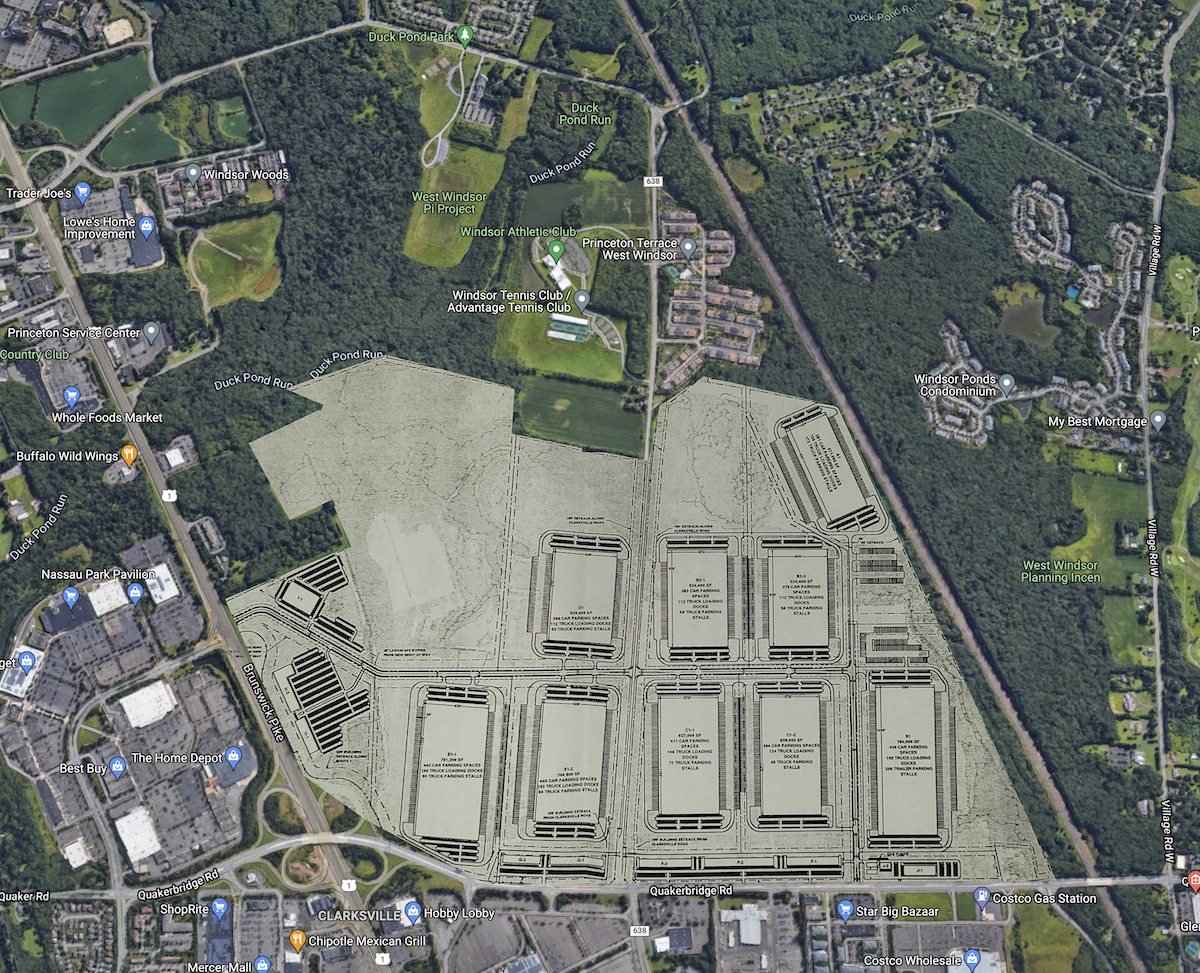
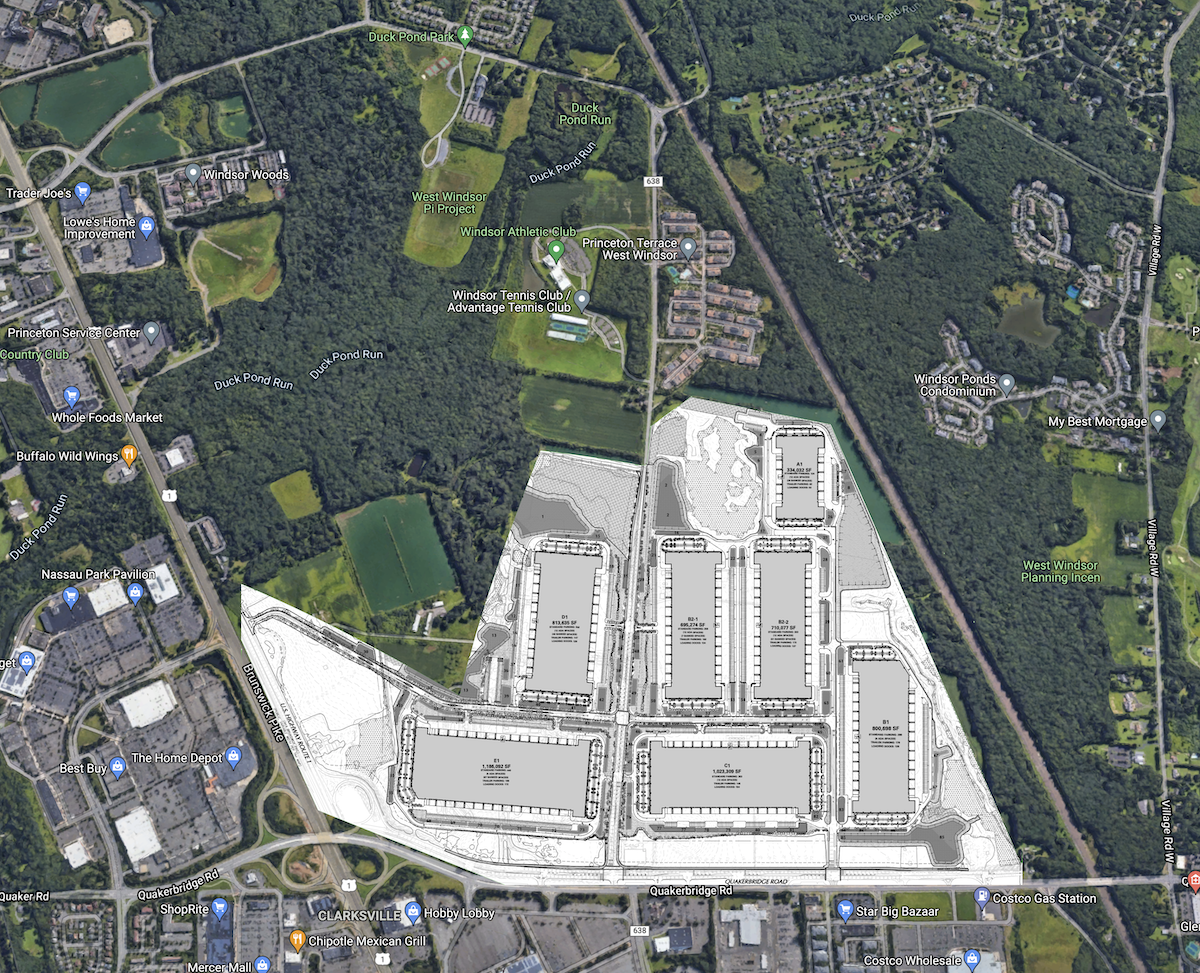
Updates

Changed region(s): [[0.185, 0.3392, 0.8942, 0.925]]

diff --git a/cm/index.html b/cm/index.html
@@ -78,21 +78,19 @@ Docs:
 
 <h4 id="warehouse_summary">Warehouse Summary</h4>
 
-Site has: <b>5.5 million sq. ft.</b> warehouse space.  <b>1,243</b> loading docks.  <b>3,562</b> car parking spaces.  <b>863</b> truck parking spaces.  See <a href="http://tinyurl.com/ClarksvilleMonstrositySummary">this Google sheet</a> (click for <a href="warehouse_summary.png">shareable image</a>).
+Site has: <b>5.6 million sq. ft.</b> warehouse space.  <b>910</b> loading docks.  <b>2,028</b> car parking spaces and <b>1,071</b> truck parking spaces.  See <a href="http://tinyurl.com/ClarksvilleMonstrositySummary">this Google sheet</a> (click for <a href="warehouse_summary.png">shareable image</a>).
 <p/>
 
 <table border="1">
   <tr bgcolor="lightblue"><th>Warehouse</th><th>Sq. Ft.</th><th>Docks</th><th>Cars</th><th>Trucks</th></tr>
-  <tr style="font-weight: bold"><td>TOTAL</td><td align="right">5,537,200</td><td align="right">1,243</td><td align="right">3,562</td><td align="right">863</td></tr>
-  <tr><td>A1</td><td align="right">411,600</td><td align="right">126</td><td align="right">281</td><td align="right">173</td></tr>
-  <tr><td>B1</td><td align="right">784,000</td><td align="right">192</td><td align="right">436</td><td align="right">205</td></tr>
-  <tr><td>B2-1</td><td align="right">524,400</td><td align="right">112</td><td align="right">383</td><td align="right">58</td></tr>
-  <tr><td>B2-2</td><td align="right">524,400</td><td align="right">112</td><td align="right">378</td><td align="right">56</td></tr>
-  <tr><td>C1-1</td><td align="right">627,000</td><td align="right">148</td><td align="right">411</td><td align="right">77</td></tr>
-  <tr><td>C1-2</td><td align="right">638,400</td><td align="right">124</td><td align="right">394</td><td align="right">65</td></tr>
-  <tr><td>D1</td><td align="right">539,400</td><td align="right">112</td><td align="right">396</td><td align="right">53</td></tr>
-  <tr><td>E1-1</td><td align="right">781,200</td><td align="right">164</td><td align="right">443</td><td align="right">90</td></tr>
-  <tr><td>E1-2</td><td align="right">706,800</td><td align="right">153</td><td align="right">440</td><td align="right">86</td></tr>
+  <tr style="font-weight: bold"><td>TOTAL</td><td align="right">5,563,117</td><td align="right">910</td><td align="right">2,028</td><td align="right">1,071</td></tr>
+  <tr><td>A1</td><td align="right">334,032</td><td align="right">52</td><td align="right">124</td><td align="right">62</td></tr>
+  <tr><td>B1</td><td align="right">800,698</td><td align="right">135</td><td align="right">288</td><td align="right">176</td></tr>
+  <tr><td>B2-1</td><td align="right">695,274</td><td align="right">134</td><td align="right">258</td><td align="right">182</td></tr>
+  <tr><td>B2-2</td><td align="right">710,077</td><td align="right">137</td><td align="right">263</td><td align="right">173</td></tr>
+  <tr><td>C1</td><td align="right">1,023,309</td><td align="right">154</td><td align="right">353</td><td align="right">145</td></tr>
+  <tr><td>D1</td><td align="right">813,635</td><td align="right">126</td><td align="right">302</td><td align="right">147</td></tr>
+  <tr><td>E1</td><td align="right">1,186,092</td><td align="right">172</td><td align="right">440</td><td align="right">186</td></tr>
 </table>
 
 <hr/>
